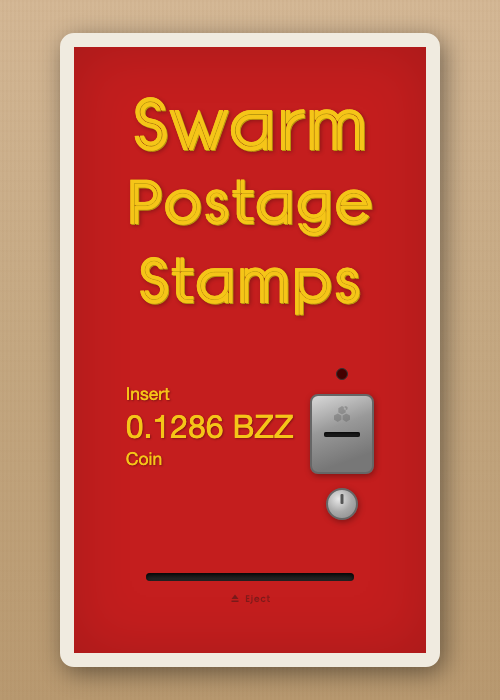
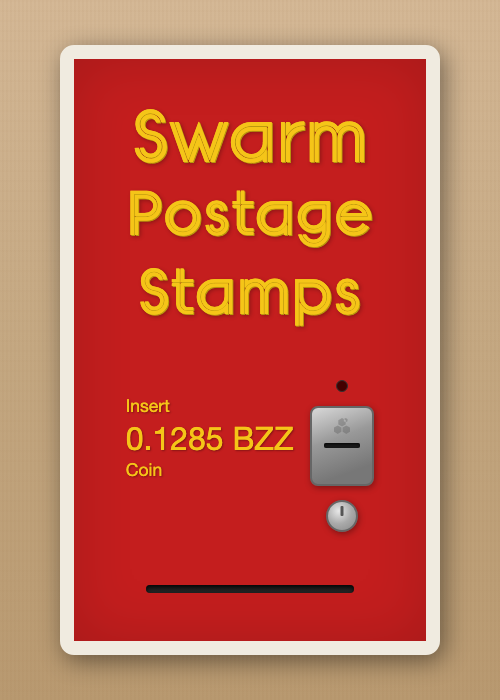
adjust toast positioning, update spec and screenshot
- toast bottom: -34px for both copied and hold toasts
- console art spacing fix

diff --git a/index.html b/index.html
@@ -442,7 +442,7 @@
 
     .copied-toast {
       position: absolute;
-      bottom: -50px;
+      bottom: -34px;
       left: 50%;
       transform: translateX(-50%);
       background: #333;
@@ -487,7 +487,7 @@
 
     .hold-toast {
       position: absolute;
-      bottom: -55px;
+      bottom: -34px;
       left: 50%;
       transform: translateX(-50%);
       background: #333;

diff --git a/src/main.ts b/src/main.ts
@@ -77,9 +77,9 @@ function formatBzz(plurs: bigint): string {
 document.addEventListener('DOMContentLoaded', async () => {
   console.log(`%c
   ╔══════════════════════════════════════════╗
-  ║   5W4RM  P0ST4G3  5T4MP  M4CH1N3       ║
+  ║   5W4RM  P0ST4G3  5T4MP  M4CH1N3         ║
   ║   ────────────────────────────────       ║
-  ║   1NS3RT C01N  >>  C0LL3CT ST4MPS       ║
+  ║   1NS3RT C01N  >>  C0LL3CT ST4MPS        ║
   ║                                          ║
   ║   p0st4g3: ${POSTAGE_CONTRACT.slice(0, 10)}...  ║
   ║   bzz:     ${BZZ_TOKEN.slice(0, 10)}...  ║

diff --git a/book-of-stamps-spec.md b/book-of-stamps-spec.md
@@ -1,105 +1,169 @@
-# Book of Stamps — Portable Postage Batch Key File
+# Book of Stamps
+
+A portable key file format for Swarm postage batch credentials.
 
 ## Authors
+
 sig (@significance)
 
-## Summary
+## Abstract
 
-A PEM-style file format for distributing Swarm postage batch credentials. A Book of Stamps bundles the private key of an ephemeral wallet (the batch owner) with batch metadata into a single portable file that can be imported by any Swarm application to use the batch for uploading data to Swarm.
+A Book of Stamps encapsulates the private key of an ephemeral wallet — the owner of a Swarm postage batch — alongside the batch metadata needed to resume uploading. The format draws on the conventions of PEM-encoded keys: ASCII delimiters, colon-separated headers, and a base64 body. It adds a compact representation of bucket utilisation state, encoded as a trie and rendered in xxd notation, so that a partially-used batch can be transferred between applications without loss of stamping position.
 
 ## Motivation
 
-Currently, using a Swarm postage batch requires both the batch ID and the private key of the batch owner to be configured separately. This creates friction when batches are purchased on behalf of others (e.g. via a stamp vending machine) or when batch credentials need to be transferred between applications. A standardised portable key file eliminates this friction and enables:
+A Swarm postage batch is identified by its batch ID, but uploading against it requires the private key of the address that owns it. These two pieces of information — the credential and the context — are typically configured separately, which introduces friction when batches are purchased on behalf of others or moved between tools.
 
-- One-click batch provisioning via web interfaces
-- Transfer of batch ownership between applications
-- Backup and restore of batch credentials
-- Delegation of upload rights without sharing node keys
+The word "book" is borrowed from philately. A book of stamps is a small folded card containing a sheet of adhesive postage stamps, sold at post offices and vending machines for convenience. The analogy holds: a Book of Stamps file is a compact, self-contained unit of postage, ready for use.
+
+The format enables:
+
+- One-step batch provisioning through web interfaces and vending machines
+- Transfer of batch credentials between Swarm applications
+- Backup and restoration of batch state, including partial utilisation
+- Delegation of upload rights without sharing node-level keys
 
 ## Specification
 
-### File Format
+### Envelope
 
-The Book of Stamps file uses PEM-style delimiters with RFC 822 headers, following the same conventions as SSH key files.
+The file is plain UTF-8 text. It opens with the delimiter `-----BEGIN BOOK OF STAMPS-----` and closes with `-----END BOOK OF STAMPS-----`. All content between the delimiters is divided into two sections — headers and body — separated by a single blank line.
 
 ```
 -----BEGIN BOOK OF STAMPS-----
 Version: 1
 Batch-Id: <64 hex characters>
 Owner: <40 hex characters>
-Depth: <uint8>
-Bucket-Depth: <uint8>
-Amount: <uint256 decimal string>
-Usage: <compact usage representation>
+Depth: <integer>
+Bucket-Depth: <integer>
+Amount: <integer>
+Usage: <usage representation>
 
-<base64-encoded body>
+<base64-encoded private key>
 -----END BOOK OF STAMPS-----
 ```
 
+A trailing newline after the closing delimiter is permitted but not required.
+
 ### Headers
 
-| Header | Type | Description |
-|--------|------|-------------|
-| Version | uint | Format version, currently `1` |
-| Batch-Id | hex(32) | The 32-byte postage batch ID, without `0x` prefix |
-| Owner | hex(20) | The Ethereum address of the batch owner (the ephemeral wallet), without `0x` prefix |
-| Depth | uint8 | Batch depth parameter (determines batch capacity: 2^depth chunks) |
-| Bucket-Depth | uint8 | Bucket depth parameter (determines number of buckets: 2^bucketDepth) |
-| Amount | uint256 | Initial balance per chunk in BZZ plurs (smallest unit) |
-| Usage | string | Compact representation of batch utilisation (see below) |
+Headers follow RFC 822 conventions: a case-sensitive field name, a colon, a single space, and the value. Each header occupies one line. All headers listed below are required.
+
+| Header | Format | Description |
+|--------|--------|-------------|
+| `Version` | decimal integer | Format version. Currently `1`. |
+| `Batch-Id` | 64 hexadecimal characters | The 32-byte postage batch identifier, without `0x` prefix. |
+| `Owner` | 40 hexadecimal characters | The Ethereum address of the batch owner wallet, without `0x` prefix. |
+| `Depth` | decimal integer | Batch depth. The batch can accommodate 2^depth chunks. |
+| `Bucket-Depth` | decimal integer | Bucket depth. The stamper distributes chunks across 2^bucketDepth buckets. |
+| `Amount` | decimal integer | Balance per chunk, denominated in plurs (the smallest unit of BZZ: 1 BZZ = 10^16 plurs). |
+| `Usage` | see below | A summary of batch utilisation, optionally followed by encoded bucket state. |
+
+### Usage field
+
+The Usage field describes how much of the batch has been consumed. It takes one of two forms.
+
+**Fresh or summary form.** When no per-bucket state is present — either because the batch has not been used, or because the bucket counters are all zero — the field contains a fraction:
+
+```
+Usage: 0/1048576
+```
+
+The numerator is the total number of stamps consumed across all buckets. The denominator is the batch capacity, equal to 2^depth.
+
+**Stateful form.** When one or more buckets have been used, the bucket counters are preserved so that a receiving application can resume stamping from the correct position. The field contains the fraction, a byte count, and the word `bytes`, followed on subsequent lines by the encoded state rendered in xxd notation:
+
+```
+Usage: 5/1048576 27 bytes
[phone redacted]: 0110 1400 0102 0305 0001 0200 0000 0000  ................
[phone redacted]: 0000 0000 0000 0000 0000 00              ...........
+```
+
+The binary data within the xxd block is a trie-encoded representation of the bucket array, described below.
+
+### Trie encoding
+
+The bucket array — a sequence of 2^bucketDepth unsigned 32-bit integers — is compressed into a binary trie. The encoding exploits the sparsity typical of partially-used batches: an empty batch compresses to four bytes; a batch with a handful of used buckets compresses to tens of bytes rather than hundreds of kilobytes.
+
+**Header.** The first three bytes of the encoded form are:
+
+| Offset | Field | Description |
+|--------|-------|-------------|
+| 0 | version | Trie encoding version. Currently `0x01`. |
+| 1 | bucketDepth | The bucket depth parameter. |
+| 2 | batchDepth | The batch depth parameter. |
+
+**Node tags.** After the header, the trie is a recursive structure of tagged nodes. Each node begins with a single-byte tag:
+
+| Tag | Name | Meaning |
+|-----|------|---------|
+| `0x00` | ZERO | The entire subtree is zero. No further data follows. |
+| `0x01` | BRANCH | The subtree is split in two. The left child follows immediately, then the right. |
+| `0x02` | DATA | A leaf node. The bucket counter follows, encoded as a LEB128 unsigned varint. |
+
+The root node spans the full bucket array. At each BRANCH, the range is halved: the left child covers the lower indices, the right child the upper. Recursion terminates when a subtree is entirely zero (ZERO) or when the range contains a single bucket (DATA).
+
+**LEB128 varints.** Counter values are encoded using unsigned LEB128. Each byte contributes seven bits of data; the high bit indicates whether another byte follows. The value 5 encodes as `0x05`; the value 300 encodes as `0xAC 0x02`.
+
+### Xxd notation
+
+The trie-encoded bytes are rendered in xxd format for human readability and safe embedding within the text envelope. Each line contains:
+
+- An eight-character hexadecimal offset, followed by a colon and a space.
+- Up to eight groups of two bytes each (four hex digits per group), space-separated.
+- Two spaces, then the ASCII interpretation of the same bytes. Printable characters (0x20 through 0x7E) appear as themselves; all others appear as a period.
+
+Lines are 16 bytes wide. The final line may be shorter.
+
+```
[phone redacted]: 0110 1400 0102 0305 0001 0200 0000 0000  ................
[phone redacted]: 0000 0000 0000 00                        .......
+```
+
+Parsers locate the hex portion by splitting on the colon and then on the double-space separator. Hex groups are read left to right, two characters at a time.
 
 ### Body
 
-The body section (after the blank line separator, before the END delimiter) contains the base64 encoding of the 32-byte secp256k1 private key of the batch owner wallet. Line wrapping at 64 characters per line follows PEM convention.
+The body section — everything between the blank line and the closing delimiter — contains the base64 encoding of the 32-byte secp256k1 private key belonging to the batch owner wallet. Lines are wrapped at 64 characters, following PEM convention.
 
-### Usage Field
+### Filename convention
 
-The Usage field has two representations:
-
-1. **Fraction format** (fresh or summary): `<used>/<total>` where total = 2^depth. Example: `0/1048576` for a fresh depth-20 batch.
-
-2. **Bucket state format** (for resuming client-side stamping): `b64:<base64-encoded Uint32Array>` where the Uint32Array contains 2^bucketDepth entries, each representing the per-bucket stamp counter. This allows reconstruction of the full Stamper state.
-
-### Filename Convention
-
-Files SHOULD use the extension `.pem` and follow the naming pattern:
+Files use the `.txt` extension and follow the naming pattern:
 
 ```
-stamp-book-<first 8 hex chars of batch ID>.pem
+book-of-stamps-<first 8 hex characters of batch ID>.txt
 ```
 
-### Parsing Algorithm
+### Parsing algorithm
 
-1. Locate `-----BEGIN BOOK OF STAMPS-----` and `-----END BOOK OF STAMPS-----` delimiters
-2. Parse RFC 822 headers (key-colon-space-value) until the first blank line
-3. Validate all required headers are present
-4. Concatenate remaining non-empty lines as base64 body
-5. Decode base64 to obtain the 32-byte private key
-6. Derive the Ethereum address from the private key and verify it matches the Owner header
+1. Locate the opening and closing delimiters. Reject the input if either is absent or if the closing delimiter precedes the opening one.
+2. Between the delimiters, read lines as headers until the first blank line. Each header is split on the first occurrence of `: ` (colon-space). Lines matching the pattern `^[0-9a-f]{8}:` are xxd data belonging to the preceding Usage header.
+3. Verify that all required headers are present.
+4. If xxd lines were collected, decode them from xxd notation and then from the trie encoding to reconstruct the bucket array.
+5. Concatenate the remaining non-empty lines after the blank separator and decode the result as base64 to obtain the 32-byte private key.
 
-### Security Considerations
+### Security considerations
 
-- The private key grants full control over the postage batch. Files MUST be treated with the same care as cryptocurrency private keys.
-- Applications SHOULD warn users before importing a Book of Stamps from an untrusted source.
-- The file SHOULD NOT be transmitted over unencrypted channels.
-- Upon import, applications SHOULD verify the batch exists on-chain and that the Owner matches the derived address from the private key.
+The private key within a Book of Stamps grants full control over the associated postage batch. The file warrants the same care as any cryptocurrency private key.
 
-### On-Chain Verification
+- Applications should warn before importing a Book of Stamps from an untrusted source.
+- The file should not be transmitted over unencrypted channels.
+- Upon import, applications should verify the batch on-chain: confirm that it exists, that the owner matches the derived address, and that the normalised balance is greater than zero.
 
-To verify a Book of Stamps against the blockchain:
+### On-chain verification
 
-1. Call `batches(bytes32)` on the PostageStamp contract (`0x45a1502382541Cd610CC9068e88727426b696293` on Gnosis chain) with the Batch-Id
-2. Verify the returned owner matches the Owner header
-3. Verify the returned depth matches the Depth header
-4. Verify the normalised balance is greater than zero (batch is alive)
+To verify a Book of Stamps against the Gnosis chain:
 
-## Backwards Compatibility
+1. Call `batches(bytes32)` on the PostageStamp contract at `0x45a1502382541Cd610CC9068e88727426b696293` with the Batch-Id.
+2. Confirm that the returned owner matches the Owner header.
+3. Confirm that the returned depth matches the Depth header.
+4. Confirm that the normalised balance is greater than zero — indicating the batch has not expired.
 
-This is a new format with no existing implementations to maintain compatibility with.
+## Test vectors
 
-## Test Cases
+### Fresh batch
 
-### Minimal Valid File
+A depth-20 batch with no stamps consumed and a private key of 32 `0x42` bytes:
 
 ```
 -----BEGIN BOOK OF STAMPS-----
@@ -111,14 +175,42 @@ Bucket-Depth: 16
 Amount: 1000000000
 Usage: 0/1048576
 
-QUJDREVGR0hJSktMTU5PUFFSU1RVVldYWVoxMjM0NTY=
+QkJCQkJCQkJCQkJCQkJCQkJCQkJCQkJCQkJCQkJCQkI=
 -----END BOOK OF STAMPS-----
 ```
 
-### Round-trip Property
+### Partially-used batch
 
-For any valid Book of Stamps file F: `serialize(deserialize(F)) == F`
+The same batch after consuming 5 stamps in bucket 0, 12 in bucket 1000, and 1 in bucket 65535:
 
-## Implementation
+```
+-----BEGIN BOOK OF STAMPS-----
+Version: 1
+Batch-Id: aaaaaaaaaaaaaaaaaaaaaaaaaaaaaaaaaaaaaaaaaaaaaaaaaaaaaaaaaaaaaaaa
+Owner: bbbbbbbbbbbbbbbbbbbbbbbbbbbbbbbbbbbbbbbb
+Depth: 20
+Bucket-Depth: 16
+Amount: 1000000000
+Usage: 18/1048576 87 bytes
[phone redacted]: 0110 1401 0101 0101 0101 0101 0101 0101  ................
[phone redacted]: 0101 0102 0500 0000 0000 0000 0000 0100  ................
[phone redacted]: 0100 0100 0100 0101 0001 0101 020c 0000  ................
[phone redacted]: 0000 0000 0000 0001 0001 0001 0001 0001  ................
[phone redacted]: 0001 0001 0001 0001 0001 0001 0001 0001  ................
[phone redacted]: 0001 0001 0002 01                        .......
 
-Reference implementation: `stamp-machine/src/stampbook.ts` in the swapchat2 repository.
+QkJCQkJCQkJCQkJCQkJCQkJCQkJCQkJCQkJCQkJCQkI=
+-----END BOOK OF STAMPS-----
+```
+
+### Round-trip property
+
+For any valid Book of Stamps text F: `serialize(deserialize(F))` produces output identical to F.
+
+## Reference implementation
+
+The `book-of-stamps` package in the swapchat2 repository provides `serialize` and `deserialize` functions, along with the trie codec and xxd formatter.
+
+## Backwards compatibility
+
+This is a new format. No prior implementations exist.